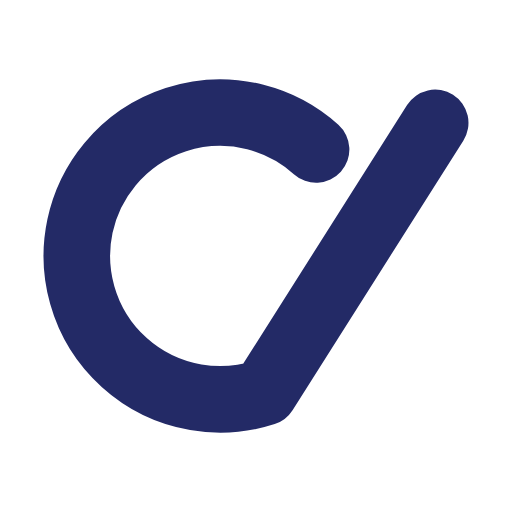
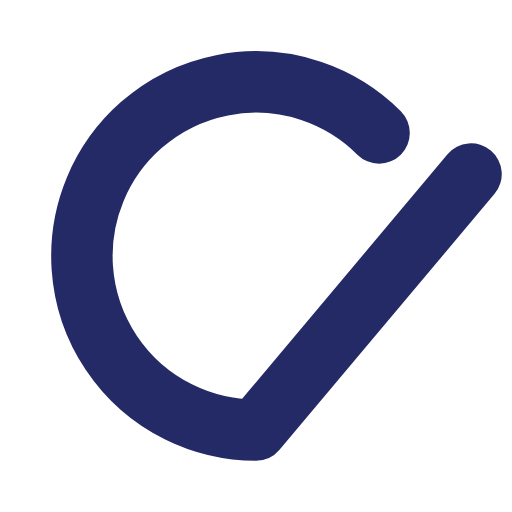
Brand: one C-tick geometry for every app
People already drew the mark with ClorTick's path, which sits closer to
the brand board. ClorMark now uses the same path and stroke, and the
static logo, mark and icon files are re-rendered from it, so the
platform and People show one mark.

diff --git a/packages/ui/src/components/brand/ClorMark.jsx b/packages/ui/src/components/brand/ClorMark.jsx
@@ -1,4 +1,5 @@
 import React from 'react';
+import { TICK_PATH } from './ClorTick.jsx';
 
 /**
  * The CLOR mark: one stroke, never lifted. It runs round the C and finishes
@@ -6,12 +7,11 @@ import React from 'react';
  * "Filed / Paid / Approved" chips are the same idea.
  *
  * Drawn inline so it follows the theme: indigo on cotton, marigold on the
- * dark indigo ground (`--logo-mark`). Same geometry as public/brand/clor-mark.svg.
+ * dark indigo ground (`--logo-mark`). The path is ClorTick's, so People and
+ * every other app draw the same mark; public/brand/clor-mark.svg matches it.
  *
  * `color` overrides the theme colour for the rare surface that needs it.
  */
-export const MARK_PATH = 'M61.74 29.19A28 28 0 1 0 51.65 76.63L85 24';
-
 export default function ClorMark({ size = 28, color, className = '', title = 'CLOR' }) {
   return (
     <svg
@@ -24,11 +24,12 @@ export default function ClorMark({ size = 28, color, className = '', title = 'CL
       className={className}
       style={{ display: 'inline-block', verticalAlign: 'middle', flexShrink: 0 }}
     >
+      {/* A small mark gets a heavier stroke so the tick still reads at favicon size. */}
       <path
-        d={MARK_PATH}
+        d={TICK_PATH}
         fill="none"
         stroke={color || 'rgb(var(--logo-mark))'}
-        strokeWidth="13"
+        strokeWidth={size < 24 ? 15 : 12}
         strokeLinecap="round"
         strokeLinejoin="round"
       />

diff --git a/website/src/components/Brand.jsx b/website/src/components/Brand.jsx
@@ -2,11 +2,11 @@ import React from 'react';
 import { BookOpen, Briefcase, CalendarClock, Fingerprint, UserRound, Wallet } from 'lucide-react';
 import { Link } from '../router.jsx';
 
-/** The CLOR logo: C-tick mark and wordmark (public/brand/clor-logo.png, 778 x 188). */
+/** The CLOR logo: C-tick mark and wordmark (public/brand/clor-logo.png, 752 x 188). */
 export function Logo({ height = 22 }) {
   return (
     <Link href="/" className="logo" aria-label="CLOR home" translate="no">
-      <img src="/brand/clor-logo.png" alt="CLOR" height={height} width={Math.round((height * 778) / 188)} />
+      <img src="/brand/clor-logo.png" alt="CLOR" height={height} width={Math.round((height * 752) / 188)} />
     </Link>
   );
 }
